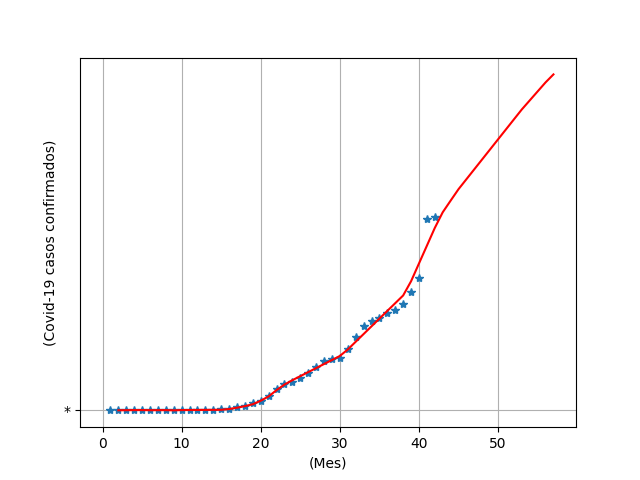
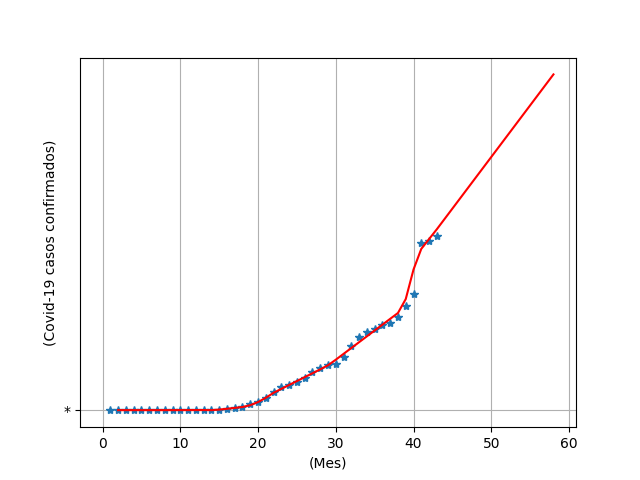
minor changes

diff --git a/covid_model_DNN.py b/covid_model_DNN.py
@@ -16,7 +16,7 @@ u = np.arange(1,len(y)+1, dtype = int)
 plt.xlabel('(Mes)')
 plt.ylabel('(Covid-19 casos confirmados)')
 plt.plot(u,y, '*') # plotting t, a separately 
-plt.show()
+#plt.show()
 days_ahead=15
 u_pred = np.arange(1,len(y)+days_ahead, dtype= int)+1
 df = pd.DataFrame(data = u_pred,columns=['Mes'])
@@ -28,8 +28,8 @@ model.add(Dense(40, input_dim=1, activation='relu'))
 model.add(Dense(20, activation='relu'))
 model.add(Dense(10, activation='relu'))
 model.add(Dense(1))
-model.compile(loss='mean_squared_error', optimizer='adamax')
-model.fit(u, y, epochs=5000, batch_size = 4)
+model.compile(loss='mean_squared_error', optimizer='adam')
+model.fit(u, y, epochs=5000, batch_size = 2)
 
 predictions = model.predict(u_pred)
 
